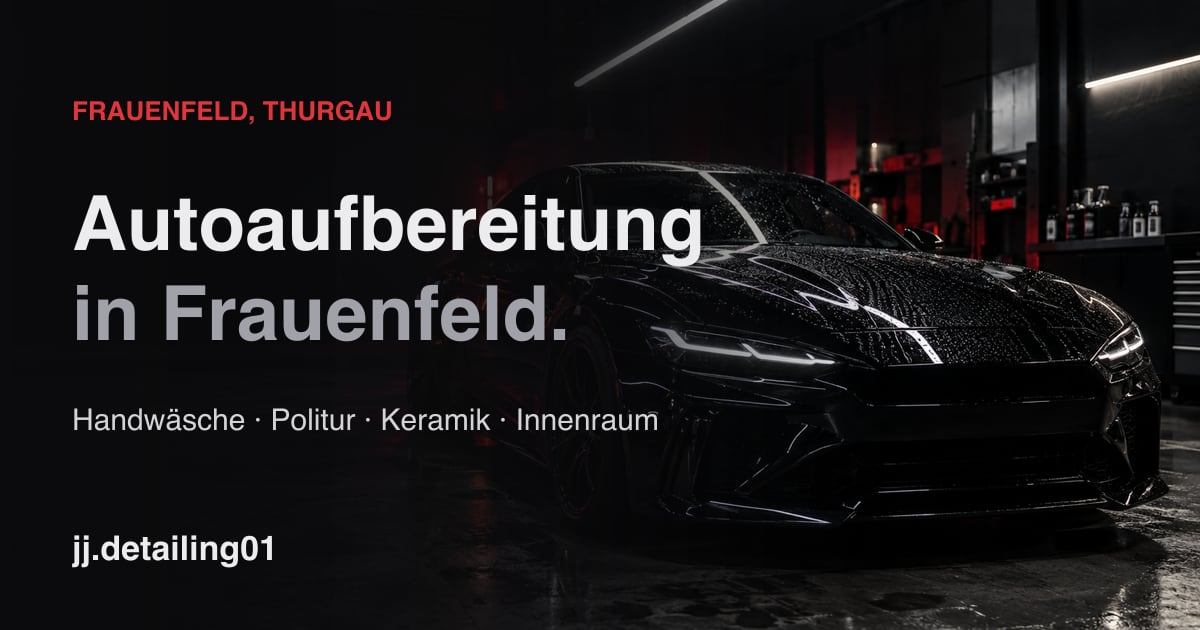
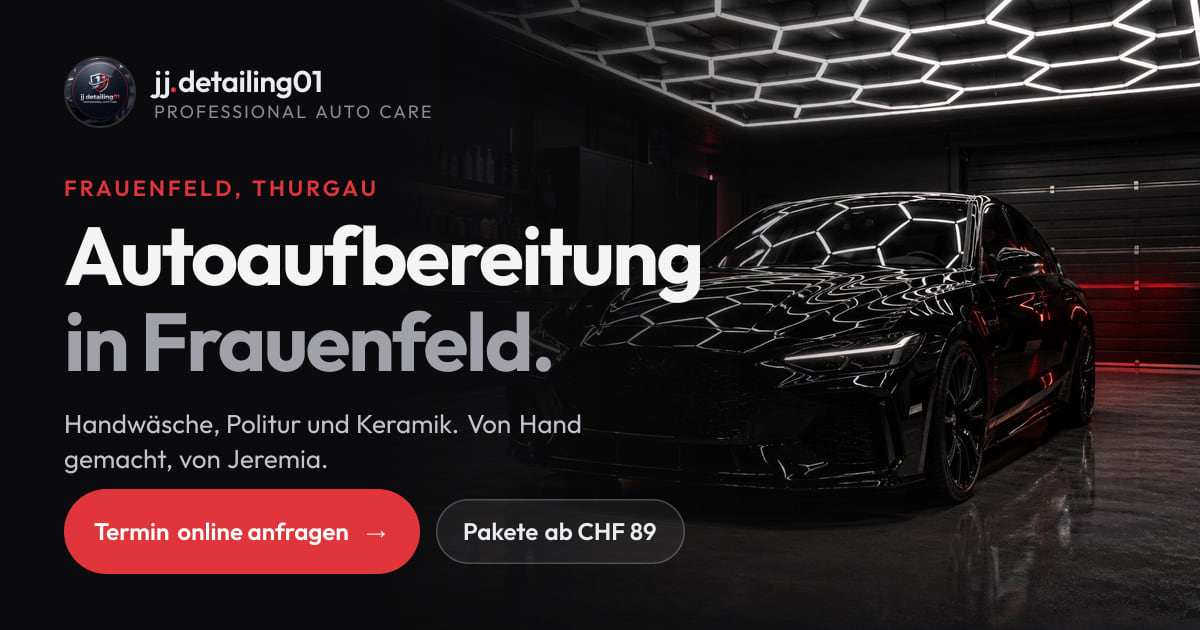
Neues Link-Vorschaubild, Wendico-Credit, 3D-Bildnachweis ins Impressum
- og.jpg neu gestaltet (Waben-Studio, Outfit, Logo, Aufruf, Einstiegspreis
  aus der DB), 1200x630, 99 KB; Generator als Dev-Route + `npm run og`
- og:image mit Versionsparameter, Typ und Alt-Text
- Footer: "Designed & powered by Wendico"
- Car-Concept-Credit (Titel, Quelle, Urheber, Lizenz, Änderungen) aus dem
  Footer ins Impressum verschoben, Hinweis auf Symbolbilder ergänzt

diff --git a/src/app/og-render/route.tsx b/src/app/og-render/route.tsx
@@ -1,0 +1,132 @@
+// Rendert das Link-Vorschaubild (nur im Dev-Modus). `npm run og` speichert es als public/og.jpg.
+// Neu erzeugen, wenn sich der Einstiegspreis im Admin ändert.
+import { ImageResponse } from "next/og";
+import { readFile } from "node:fs/promises";
+import path from "node:path";
+import sharp from "sharp";
+import { getServices } from "@/lib/data";
+
+export const runtime = "nodejs";
+export const dynamic = "force-dynamic";
+
+const root = process.cwd();
+const font = (w: number) => readFile(path.join(root, `node_modules/@fontsource/outfit/files/outfit-latin-${w}-normal.woff`));
+const dataUri = (buf: Buffer, type: string) => `data:${type};base64,${buf.toString("base64")}`;
+
+export async function GET() {
+  if (process.env.NODE_ENV === "production") return new Response("Not found", { status: 404 });
+  const [f400, f600, f700, services] = await Promise.all([font(400), font(600), font(700), getServices()]);
+  const minPrice = services.length ? Math.min(...services.map((s) => s.priceFrom)) : 89;
+
+  const photo = await sharp(path.join(root, "public/images/studio.png"))
+    .resize(860, 630, { fit: "cover", position: "centre" })
+    .jpeg({ quality: 90 })
+    .toBuffer();
+  const logo = await sharp(path.join(root, "public/logo.webp")).resize(144, 144).png().toBuffer();
+
+  return new ImageResponse(
+    (
+      <div style={{ width: 1200, height: 630, display: "flex", position: "relative", background: "#0b0b0d", fontFamily: "Outfit" }}>
+        {/* Foto rechts, nach links weich in Schwarz */}
+        {/* eslint-disable-next-line @next/next/no-img-element */}
+        <img src={dataUri(photo, "image/jpeg")} width={860} height={630} style={{ position: "absolute", left: 340, top: 0, width: 860, height: 630 }} alt="" />
+        <div
+          style={{
+            position: "absolute",
+            left: 0,
+            top: 0,
+            width: 1200,
+            height: 630,
+            display: "flex",
+            backgroundImage:
+              "linear-gradient(90deg, #0b0b0d 0%, #0b0b0d 32%, rgba(11,11,13,0.88) 44%, rgba(11,11,13,0.35) 60%, rgba(11,11,13,0) 78%)",
+          }}
+        />
+        <div
+          style={{
+            position: "absolute",
+            left: 0,
+            top: 0,
+            width: 1200,
+            height: 630,
+            display: "flex",
+            backgroundImage: "linear-gradient(0deg, rgba(11,11,13,0.9) 0%, rgba(11,11,13,0) 28%)",
+          }}
+        />
+
+        <div style={{ position: "relative", display: "flex", flexDirection: "column", padding: "56px 64px", width: "100%" }}>
+          {/* Marke */}
+          <div style={{ display: "flex", alignItems: "center", gap: 18 }}>
+            {/* eslint-disable-next-line @next/next/no-img-element */}
+            <img src={dataUri(logo, "image/png")} width={72} height={72} style={{ borderRadius: 999, border: "2px solid rgba(255,255,255,0.15)" }} alt="" />
+            <div style={{ display: "flex", flexDirection: "column" }}>
+              <div style={{ display: "flex", fontSize: 30, fontWeight: 600, color: "#ececee", letterSpacing: -0.5 }}>
+                jj<span style={{ color: "#e0353b" }}>.</span>detailing01
+              </div>
+              <div style={{ fontSize: 18, color: "#8b8b94", letterSpacing: 2, textTransform: "uppercase" }}>Professional Auto Care</div>
+            </div>
+          </div>
+
+          {/* Botschaft */}
+          <div style={{ display: "flex", flexDirection: "column", marginTop: 46 }}>
+            <div style={{ fontSize: 22, fontWeight: 600, color: "#e0353b", letterSpacing: 3, textTransform: "uppercase" }}>
+              Frauenfeld, Thurgau
+            </div>
+            <div style={{ fontSize: 82, fontWeight: 700, color: "#f4f4f5", lineHeight: 1.0, letterSpacing: -2.5, marginTop: 12 }}>
+              Autoaufbereitung
+            </div>
+            <div style={{ fontSize: 82, fontWeight: 700, color: "#a1a1aa", lineHeight: 1.0, letterSpacing: -2.5, marginTop: 4 }}>
+              in Frauenfeld.
+            </div>
+            <div style={{ fontSize: 26, fontWeight: 400, color: "#c4c4cc", marginTop: 24, maxWidth: 520, lineHeight: 1.35 }}>
+              Handwäsche, Politur und Keramik. Von Hand gemacht, von Jeremia.
+            </div>
+          </div>
+
+          {/* Aufruf */}
+          <div style={{ display: "flex", alignItems: "center", gap: 16, marginTop: "auto" }}>
+            <div
+              style={{
+                display: "flex",
+                alignItems: "center",
+                gap: 12,
+                background: "#e0353b",
+                color: "white",
+                fontSize: 24,
+                fontWeight: 600,
+                padding: "16px 30px",
+                borderRadius: 999,
+              }}
+            >
+              Termin online anfragen
+              <span style={{ fontSize: 26 }}>→</span>
+            </div>
+            <div
+              style={{
+                display: "flex",
+                fontSize: 24,
+                fontWeight: 600,
+                color: "#ececee",
+                padding: "16px 26px",
+                borderRadius: 999,
+                border: "1.5px solid rgba(255,255,255,0.22)",
+                background: "rgba(255,255,255,0.06)",
+              }}
+            >
+              Pakete ab CHF {minPrice}
+            </div>
+          </div>
+        </div>
+      </div>
+    ),
+    {
+      width: 1200,
+      height: 630,
+      fonts: [
+        { name: "Outfit", data: f400, weight: 400, style: "normal" },
+        { name: "Outfit", data: f600, weight: 600, style: "normal" },
+        { name: "Outfit", data: f700, weight: 700, style: "normal" },
+      ],
+    },
+  );
+}

diff --git a/src/app/impressum/page.tsx b/src/app/impressum/page.tsx
@@ -28,9 +28,27 @@ export default async function Impressum() {
       <p>Instagram: {s.instagram}</p>
       <h2>Bildnachweis</h2>
       <p>
-        3D-Modell „Car Concept“ der Khronos Group, basierend auf einem Public-Domain-Modell von Unity Fan, lizenziert
-        unter CC BY 4.0. Die Lackfarbe wurde angepasst.
+        3D-Modell in der 3D-Ansicht:{" "}
+        <a
+          href="https://github.com/KhronosGroup/glTF-Sample-Assets/tree/main/Models/CarConcept"
+          target="_blank"
+          rel="noreferrer"
+          className="text-fg underline underline-offset-2"
+        >
+          „Car Concept“
+        </a>{" "}
+        der Khronos Group, basierend auf einem Public-Domain-Modell von Unity Fan. Lizenz:{" "}
+        <a
+          href="https://creativecommons.org/licenses/by/4.0/deed.de"
+          target="_blank"
+          rel="noreferrer"
+          className="text-fg underline underline-offset-2"
+        >
+          CC BY 4.0
+        </a>
+        . Änderungen: Lackfarbe und Materialien angepasst, Kennzeichen und Emblem ausgeblendet, Datei komprimiert.
       </p>
+      <p>Die übrigen Fotos auf dieser Website sind Symbolbilder.</p>
     </LegalPage>
   );
 }

diff --git a/src/components/Footer.tsx b/src/components/Footer.tsx
@@ -68,15 +68,13 @@ export function Footer({ settings }: { settings: Settings }) {
       >
         jj.detailing
       </p>
-      <div className="mx-auto flex max-w-6xl flex-col gap-2 px-5 pb-10 pt-8 text-xs text-zinc-500 md:flex-row md:justify-between">
-        <p>© {new Date().getFullYear()} jj.detailing01, Frauenfeld</p>
-        <p>
-          3D-Modell: „Car Concept“, Khronos Group, nach einem Modell von Unity Fan,{" "}
-          <a href="https://creativecommons.org/licenses/by/4.0/" className="underline underline-offset-2" target="_blank" rel="noreferrer">
-            CC BY 4.0
-          </a>
-          , Lack eingefärbt
-        </p>
+      <div className="mx-auto max-w-6xl px-5 pb-10 pt-8">
+        <div className="flex flex-col gap-2 border-t border-line pt-6 text-sm text-zinc-500 sm:flex-row sm:items-center sm:justify-between">
+          <p>© {new Date().getFullYear()} jj.detailing01, Frauenfeld</p>
+          <p>
+            Designed &amp; powered by <span className="font-display font-semibold tracking-tight text-fg">Wendico</span>
+          </p>
+        </div>
       </div>
     </footer>
   );

diff --git a/src/app/layout.tsx b/src/app/layout.tsx
@@ -30,13 +30,22 @@ export const metadata: Metadata = {
     siteName: BUSINESS.name,
     title: SEO_TITLE,
     description: SEO_DESCRIPTION,
-    images: [{ url: "/og.jpg", width: 1200, height: 630, alt: "Autoaufbereitung in Frauenfeld, jj.detailing01" }],
+    images: [
+      {
+        // ?v= erhöhen, wenn das Bild neu erzeugt wird, damit Messenger den Cache erneuern
+        url: "/og.jpg?v=2",
+        width: 1200,
+        height: 630,
+        type: "image/jpeg",
+        alt: "jj.detailing01: Autoaufbereitung in Frauenfeld. Schwarzes Auto unter Waben-Licht, Pakete ab CHF 89.",
+      },
+    ],
   },
   twitter: {
     card: "summary_large_image",
     title: SEO_TITLE,
     description: SEO_DESCRIPTION,
-    images: ["/og.jpg"],
+    images: ["/og.jpg?v=2"],
   },
   robots: {
     index: true,

diff --git a/README.md b/README.md
@@ -46,7 +46,8 @@ ADMIN_PASSWORD='neues-langes-passwort' node --env-file=.env.local scripts/set-ad
 ## SEO und GEO
 
 - **Domain setzen:** `NEXT_PUBLIC_SITE_URL` (z.B. `https://jj-detailing.ch`) in `.env.local` bzw. bei Vercel eintragen. Ohne die Variable nimmt Vercel automatisch die Produktions-Domain.
-- **Automatisch erzeugt:** `/sitemap.xml`, `/robots.txt`, `/manifest.webmanifest`, `/llms.txt`, Favicons, Social-Vorschau (`public/og.jpg`).
+- **Automatisch erzeugt:** `/sitemap.xml`, `/robots.txt`, `/manifest.webmanifest`, `/llms.txt`, Favicons.
+- **Link-Vorschau (`public/og.jpg`):** wird mit `npm run og` neu erzeugt (Dev-Server muss laufen). Danach in `src/app/layout.tsx` die Version `og.jpg?v=` um eins erhöhen, damit WhatsApp & Co. das neue Bild laden. Nötig, wenn sich der Einstiegspreis ändert.
 - **Strukturierte Daten (JSON-LD):** LocalBusiness/AutoWash mit Ort Frauenfeld, Koordinaten, Öffnungszeiten, Preisspanne, Pakete als Angebote, FAQPage. Preise und Zeiten kommen live aus dem Admin.
 - **GEO (KI-Suche):** `robots.txt` erlaubt GPTBot, ClaudeBot, PerplexityBot, Google-Extended usw. `llms.txt` fasst Fakten, Preise und FAQ kompakt zusammen.
 - **Nach dem Livegang:** Domain in der Google Search Console und den Bing Webmaster Tools anmelden und die Sitemap einreichen. Ein **Google-Unternehmensprofil** für Frauenfeld anlegen (gleicher Name, Ort und Instagram-Link wie auf der Website), das ist für lokale Suchen der grösste Hebel.
